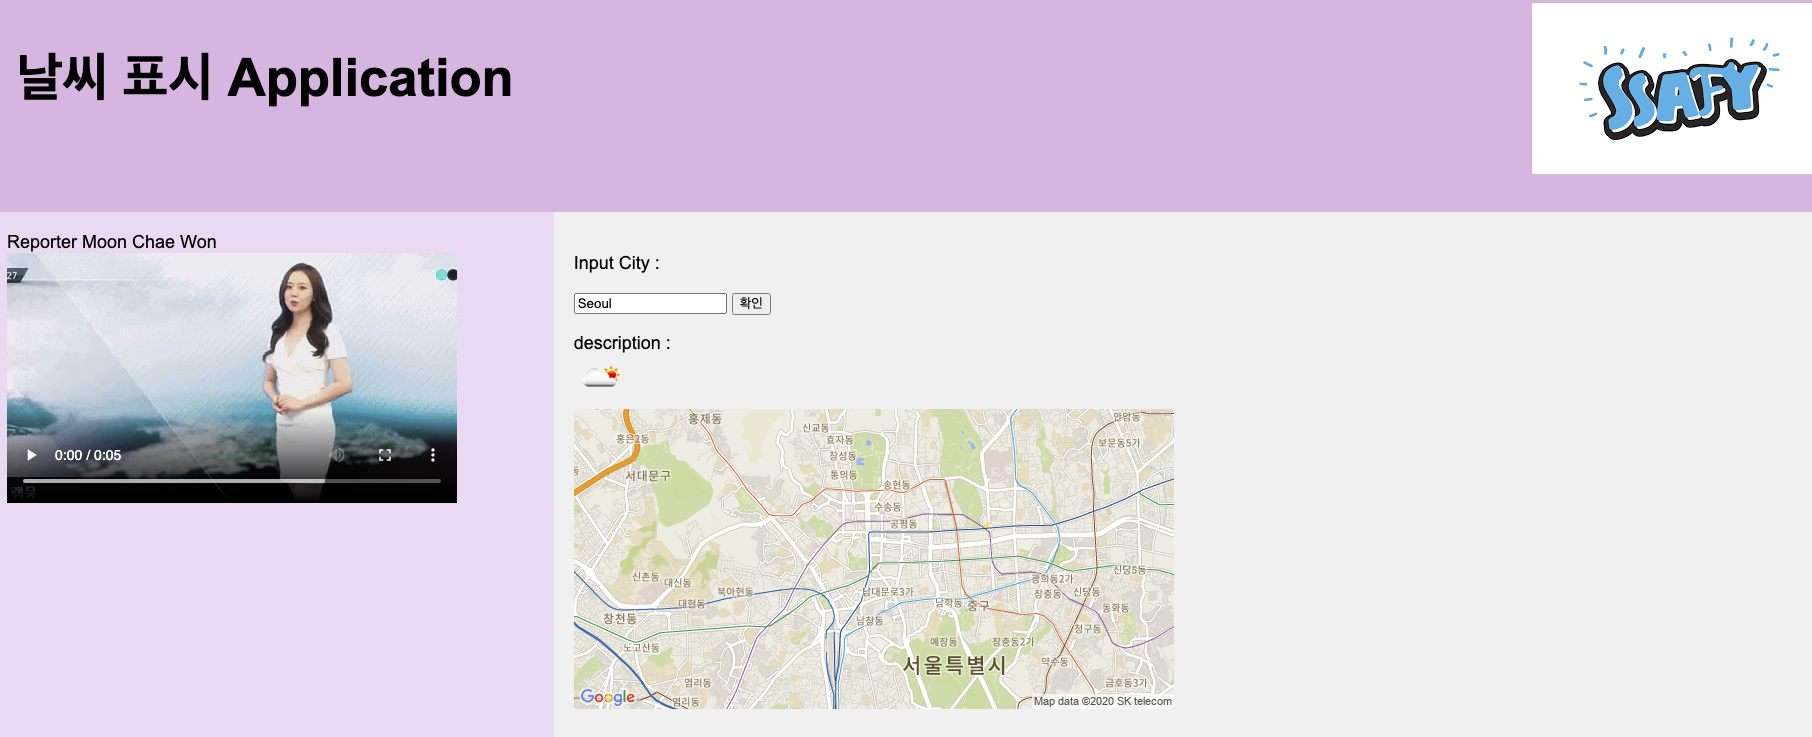
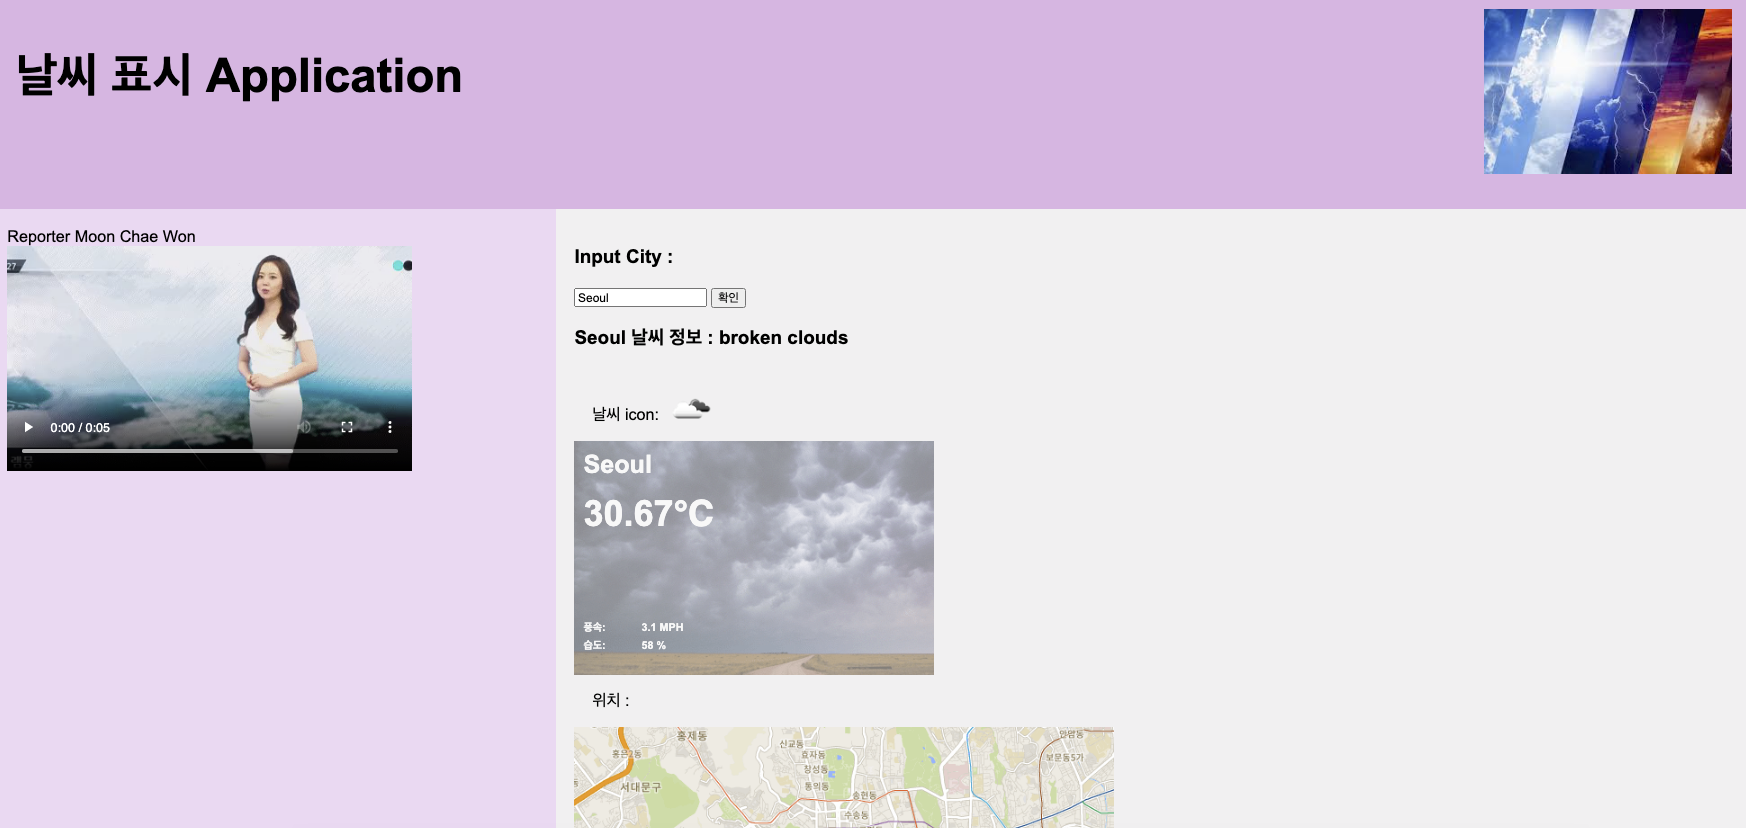
weather card added

Changed region(s): [[0.0, 0.0, 1.0, 1.0], [0.0, 0.0624, 0.3093, 0.156]]

diff --git a/weather/templates/index.html b/weather/templates/index.html
@@ -7,77 +7,10 @@
         <title> 날씨 표시 - with django </title>
         <script src ="https://unpkg.com/vue"></script>
         <script src="https://unpkg.com/axios/dist/axios.min.js"></script>
-        <style>
-        *{
-            box-sizing: border-box;
-        }
-        
-        body {
-            font-family: Arial, Helvetica, sans-serif;
-        }
-        
-        /* Style the header */
-        header {
-            background-color: rgb(226, 184, 228);
-            padding: 30px;
-            text-align: center;
-            font-size: 35px;
-            /* color: white; */
-        }
-        
-        /* Create two columns/boxes that floats next to each other */
-        nav {
-            float: left;
-            width: 30%;
-            height: 800px; /* only for demonstration, should be removed */
-            background: rgb(241, 218, 243);
-            padding: 20px;
-        }
-        
-        /* Style the list inside the menu */
-        nav ul {
-            list-style-type: none;
-            padding: 0;
-        }
-        
-        article {
-            float: left;
-            padding: 20px;
-            width: 70%;
-            background-color: #f1f1f1;
-            height: 800px; /* only for demonstration, should be removed */
-        }
-        
-        /* Clear floats after the columns */
-        section:after {
-            content: "";
-            display: table;
-            clear: both;
-        }
-        
-        /* Style the footer */
-        footer {
-            background-color:rgb(226, 184, 228);
-            padding: 10px;
-            text-align: center;
-            color: white;
-        }
-        
-        /* Responsive layout - makes the two columns/boxes stack on top of each other instead of next to each other, on small screens */
-        @media (max-width: 600px) {
-            nav, article {
-            width: 100%;
-            height: auto;
-            }
-        }
-        .clear{
-            clear: left;
-        }
-        </style>
+        <link rel="stylesheet" href="{%static 'style.css'%}" />
     </head>
     <body>
         <div id="app">
-
             <header>
                 <h2 style="color:black; float:left;margin-right: 1000px;">날씨 표시 Application</h2>
                 <img v-bind:src='image'><br>
@@ -90,7 +23,7 @@
                 </nav>
                 <article>
                     <h3>Input City : </h3>
-                    <input v-model.lazy.trim="city" placeholder="도시명 입력(영어)">
+                    <input v-model.lazy.trim="city" placeholder="도시명 입력(영어)" v-on:keyup.enter="updateWeather">
                     <button v-on:click="updateWeather">확인</button>
                 
                     <h3>[[city]] 날씨 정보 : [[description]] </h3> 
@@ -102,13 +35,67 @@
                     </div>
                     
                     <div class="clear"></div>
-
                     <div>
-                        <p style="margin-left:20px">온도:&nbsp;&nbsp;&nbsp;&nbsp; [[temp]]</p>
-                    </div>
-
-                    <div class="clear"></div>
+                      <template v-if="Main=='Clear'">
+                          <div class="weather_image" style="background-image:url('https://bit.ly/2UxkSmj')">
+                              <h2 id="Loca">[[city]]</h2>
+                              <h1 id="Temp">[[temp]]<sup></sup></h1>
+                              <h2 id="Hum">습도:&nbsp&nbsp&nbsp&nbsp&nbsp&nbsp&nbsp&nbsp&nbsp&nbsp&nbsp[[humidity]] %</h2>
+                              <h2 id="wind">풍속:&nbsp&nbsp&nbsp&nbsp&nbsp&nbsp&nbsp&nbsp&nbsp&nbsp&nbsp[[windP]]&nbspMPH</h2>
+                          </div>
+                      </template>
+                      <template v-else-if="Main=='Rain'">
+                          <div class="weather_image" style="background-image:url('https://bit.ly/3biKp8M')">
+                              <h2 id="Loca">[[city]]</h2>
+                              <h1 id="Temp">[[temp]]<sup></sup></h1>
+                              <h2 id="Hum">습도:               &nbsp&nbsp&nbsp&nbsp&nbsp&nbsp&nbsp&nbsp&nbsp&nbsp&nbsp[[humidity]] %</h2>
+                              <h2 id="wind">풍속:              &nbsp&nbsp&nbsp&nbsp&nbsp&nbsp&nbsp&nbsp&nbsp&nbsp&nbsp[[windP]]&nbspMPH</h2>
+                          </div>
+                      </template>
+                       <template v-else-if="Main=='Clouds'">
+                          <div class="weather_image" style="background-image:url('https://bit.ly/2Uxv6CU')">
+                              <h2 id="Loca">[[city]]</h2>
+                              <h1 id="Temp">[[temp]]<sup></sup></h1>
+                              <h2 id="Hum">습도:               &nbsp&nbsp&nbsp&nbsp&nbsp&nbsp&nbsp&nbsp&nbsp&nbsp&nbsp[[humidity]] %</h2>
+                              <h2 id="wind">풍속:              &nbsp&nbsp&nbsp&nbsp&nbsp&nbsp&nbsp&nbsp&nbsp&nbsp&nbsp[[windP]]&nbspMPH</h2>
+                          </div>
+                      </template>
+                       <template v-else-if="Main=='Snow'">
+                          <div class="weather_image" style="background-image:url('https://bit.ly/2S30ffX')">
+                              <h2 id="Loca">[[city]]</h2>
+                              <h1 id="Temp">[[temp]]<sup></sup></h1>
+                              <h2 id="Hum">습도:               &nbsp&nbsp&nbsp&nbsp&nbsp&nbsp&nbsp&nbsp&nbsp&nbsp&nbsp[[humidity]] %</h2>
+                              <h2 id="wind">풍속:              &nbsp&nbsp&nbsp&nbsp&nbsp&nbsp&nbsp&nbsp&nbsp&nbsp&nbsp[[windP]]&nbspMPH</h2>
+                          </div>
+                      </template>
+                      
+                      <template v-else-if="Main=='Drizzle'">
+                        <div class="weather_image" style="background-image:url('http://bitly.kr/3lCWf6mHY9')">
+                            <h2 id="Loca">[[city]]</h2>
+                            <h1 id="Temp">[[temp]]<sup></sup></h1>
+                            <h2 id="Hum">습도:               &nbsp&nbsp&nbsp&nbsp&nbsp&nbsp&nbsp&nbsp&nbsp&nbsp&nbsp[[humidity]] %</h2>
+                            <h2 id="wind">풍속:              &nbsp&nbsp&nbsp&nbsp&nbsp&nbsp&nbsp&nbsp&nbsp&nbsp&nbsp[[windP]]&nbspMPH</h2>
+                        </div>
+                    </template>
                     
+                    <template v-else-if="Main=='Thunderstorm'">
+                      <div class="weather_image" style="background-image:url('http://bitly.kr/seNP0xk1eX')">
+                          <h2 id="Loca">[[city]]</h2>
+                          <h1 id="Temp">[[temp]]<sup></sup></h1>
+                          <h2 id="Hum">습도:               &nbsp&nbsp&nbsp&nbsp&nbsp&nbsp&nbsp&nbsp&nbsp&nbsp&nbsp[[humidity]] %</h2>
+                          <h2 id="wind">풍속:              &nbsp&nbsp&nbsp&nbsp&nbsp&nbsp&nbsp&nbsp&nbsp&nbsp&nbsp[[windP]]&nbspMPH</h2>
+                      </div>
+                  </template>
+                  
+                  <template v-else-if="Main=='Atmosphere'">
+                    <div class="weather_image" style="background-image:url('http://bitly.kr/N6i9KoTSl7')">
+                        <h2 id="Loca">[[city]]</h2>
+                        <h1 id="Temp">[[temp]]<sup></sup></h1>
+                        <h2 id="Hum">습도:               &nbsp&nbsp&nbsp&nbsp&nbsp&nbsp&nbsp&nbsp&nbsp&nbsp&nbsp[[humidity]] %</h2>
+                        <h2 id="wind">풍속:              &nbsp&nbsp&nbsp&nbsp&nbsp&nbsp&nbsp&nbsp&nbsp&nbsp&nbsp[[windP]]&nbspMPH</h2>
+                    </div>
+                </template>
+                  </div>
                     <div>
                         <p style="margin-left:20px;">위치 : </p>
                         <img :src="map_url" />
@@ -127,7 +114,7 @@
                 data:() =>{
                     return{
                     product:'test',
-                    image : "{% static 'img/ssafy.png' %}",
+                    image : "{% static 'img/weather.png' %}",
                     video :"{% static 'img/moon.mp4' %}",
                     description :'',
                     icon_url:'',
@@ -135,6 +122,9 @@
                     city:'Seoul',
                     weather:'',
                     temp:'',
+                    Main:'',
+                    humidity:'',
+                    windP:'1'
                     }
                 },
                 methods: {
@@ -142,10 +132,10 @@
                     return '//openweathermap.org/img/w/'+n+'.png';
                     },
                     getMapURL: function(city) {
-                    return 'https://maps.googleapis.com/maps/api/staticmap?center='+city+'&zoom=13&size=600x300&maptype=roadmap&key="your_key"';
+                    return 'https://maps.googleapis.com/maps/api/staticmap?center='+city+'&zoom=13&size=600x300&maptype=roadmap&key="yourkey"';
                     },
                     updateWeather: function() {
-                        var url = '//api.openweathermap.org/data/2.5/weather?q='+this.city+'&appid="your_key"';
+                        var url = '//api.openweathermap.org/data/2.5/weather?q='+this.city+'&appid="yourkey"';
                         axios.get(url).then(res => {
                             // console.log(JSON.stringify(res.data));
                             this.weather = res.data.weather;
@@ -161,6 +151,16 @@
                             temp = res.data.main;
                             console.log(temp)
                             this.temp = ''+(parseFloat(temp.temp)-273.15).toFixed(2) + '℃';
+
+                            this.Main = this.weather[0].main;
+                            console.log(this.Main)
+
+
+                            this.windP = res.data.wind.speed;
+                            console.log(this.windP);
+
+                            this.humidity = res.data.main.humidity;
+                            console.log(this.humidity);
                     });
                     }
                 }

diff --git a/static/style.css b/static/style.css
@@ -1,0 +1,137 @@
+*{
+    box-sizing: border-box;
+}
+
+body {
+    font-family: Arial, Helvetica, sans-serif;
+}
+
+/* Style the header */
+header {
+    background-color: rgb(226, 184, 228);
+    padding: 30px;
+    text-align: center;
+    font-size: 35px;
+    /* color: white; */
+}
+
+/* Create two columns/boxes that floats next to each other */
+nav {
+    float: left;
+    width: 30%;
+    height: 900px; /* only for demonstration, should be removed */
+    background: rgb(241, 218, 243);
+    padding: 20px;
+}
+
+/* Style the list inside the menu */
+nav ul {
+    list-style-type: none;
+    padding: 0;
+}
+
+article {
+    float: left;
+    padding: 20px;
+    width: 70%;
+    background-color: #f1f1f1;
+    height: 900px; /* only for demonstration, should be removed */
+}
+
+/* Clear floats after the columns */
+section:after {
+    content: "";
+    display: table;
+    clear: both;
+}
+
+/* Style the footer */
+footer {
+    background-color:rgb(226, 184, 228);
+    padding: 10px;
+    text-align: center;
+    color: white;
+}
+
+/* Responsive layout - makes the two columns/boxes stack on top of each other instead of next to each other, on small screens */
+@media (max-width: 600px) {
+    nav, article {
+    width: 100%;
+    height: auto;
+    }
+}
+.clear{
+    clear: left;
+}
+.weather_image{
+width:400px;
+height:260px;
+opacity: 50%;
+}
+#front{
+margin:0px;
+}
+#Loca{
+margin: 10px;
+padding: 0;
+font-size: 28px;
+text-align: left;
+float: left;
+color: #fff;
+}
+
+#Temp{
+text-align: Left;
+position: absolute;
+font-size:40px;
+margin-top:50px;
+margin-left:10px;
+color: #fff;
+}
+#wind{
+text-align: Left;
+font-size: 12px;
+position: absolute;
+margin-top:200px;
+margin-left:10px;
+color: #fff;
+}
+#Hum{
+text-align: Left;
+position: absolute;
+font-size: 12px;
+margin-top:220px;
+margin-left:10px;
+color: #fff;
+}
+
+.lower_date{
+font-size: 15px;
+color:black;
+font-weight: bolder;
+margin: 0px;
+}
+.float_image{
+float:left;
+width : 100px;
+height : 100px;
+position: relative;
+z-index: 1;
+}
+.background{
+position: absolute;
+z-index: -1;
+top: 0;
+bottom: 0;
+left: 0;
+right: 0;
+
+opacity: .4;
+background-size: 100px;
+width: 100%;
+height: 100%;
+}
+.lower{
+margin:0px;
+margin-bottom: 15px;
+}
